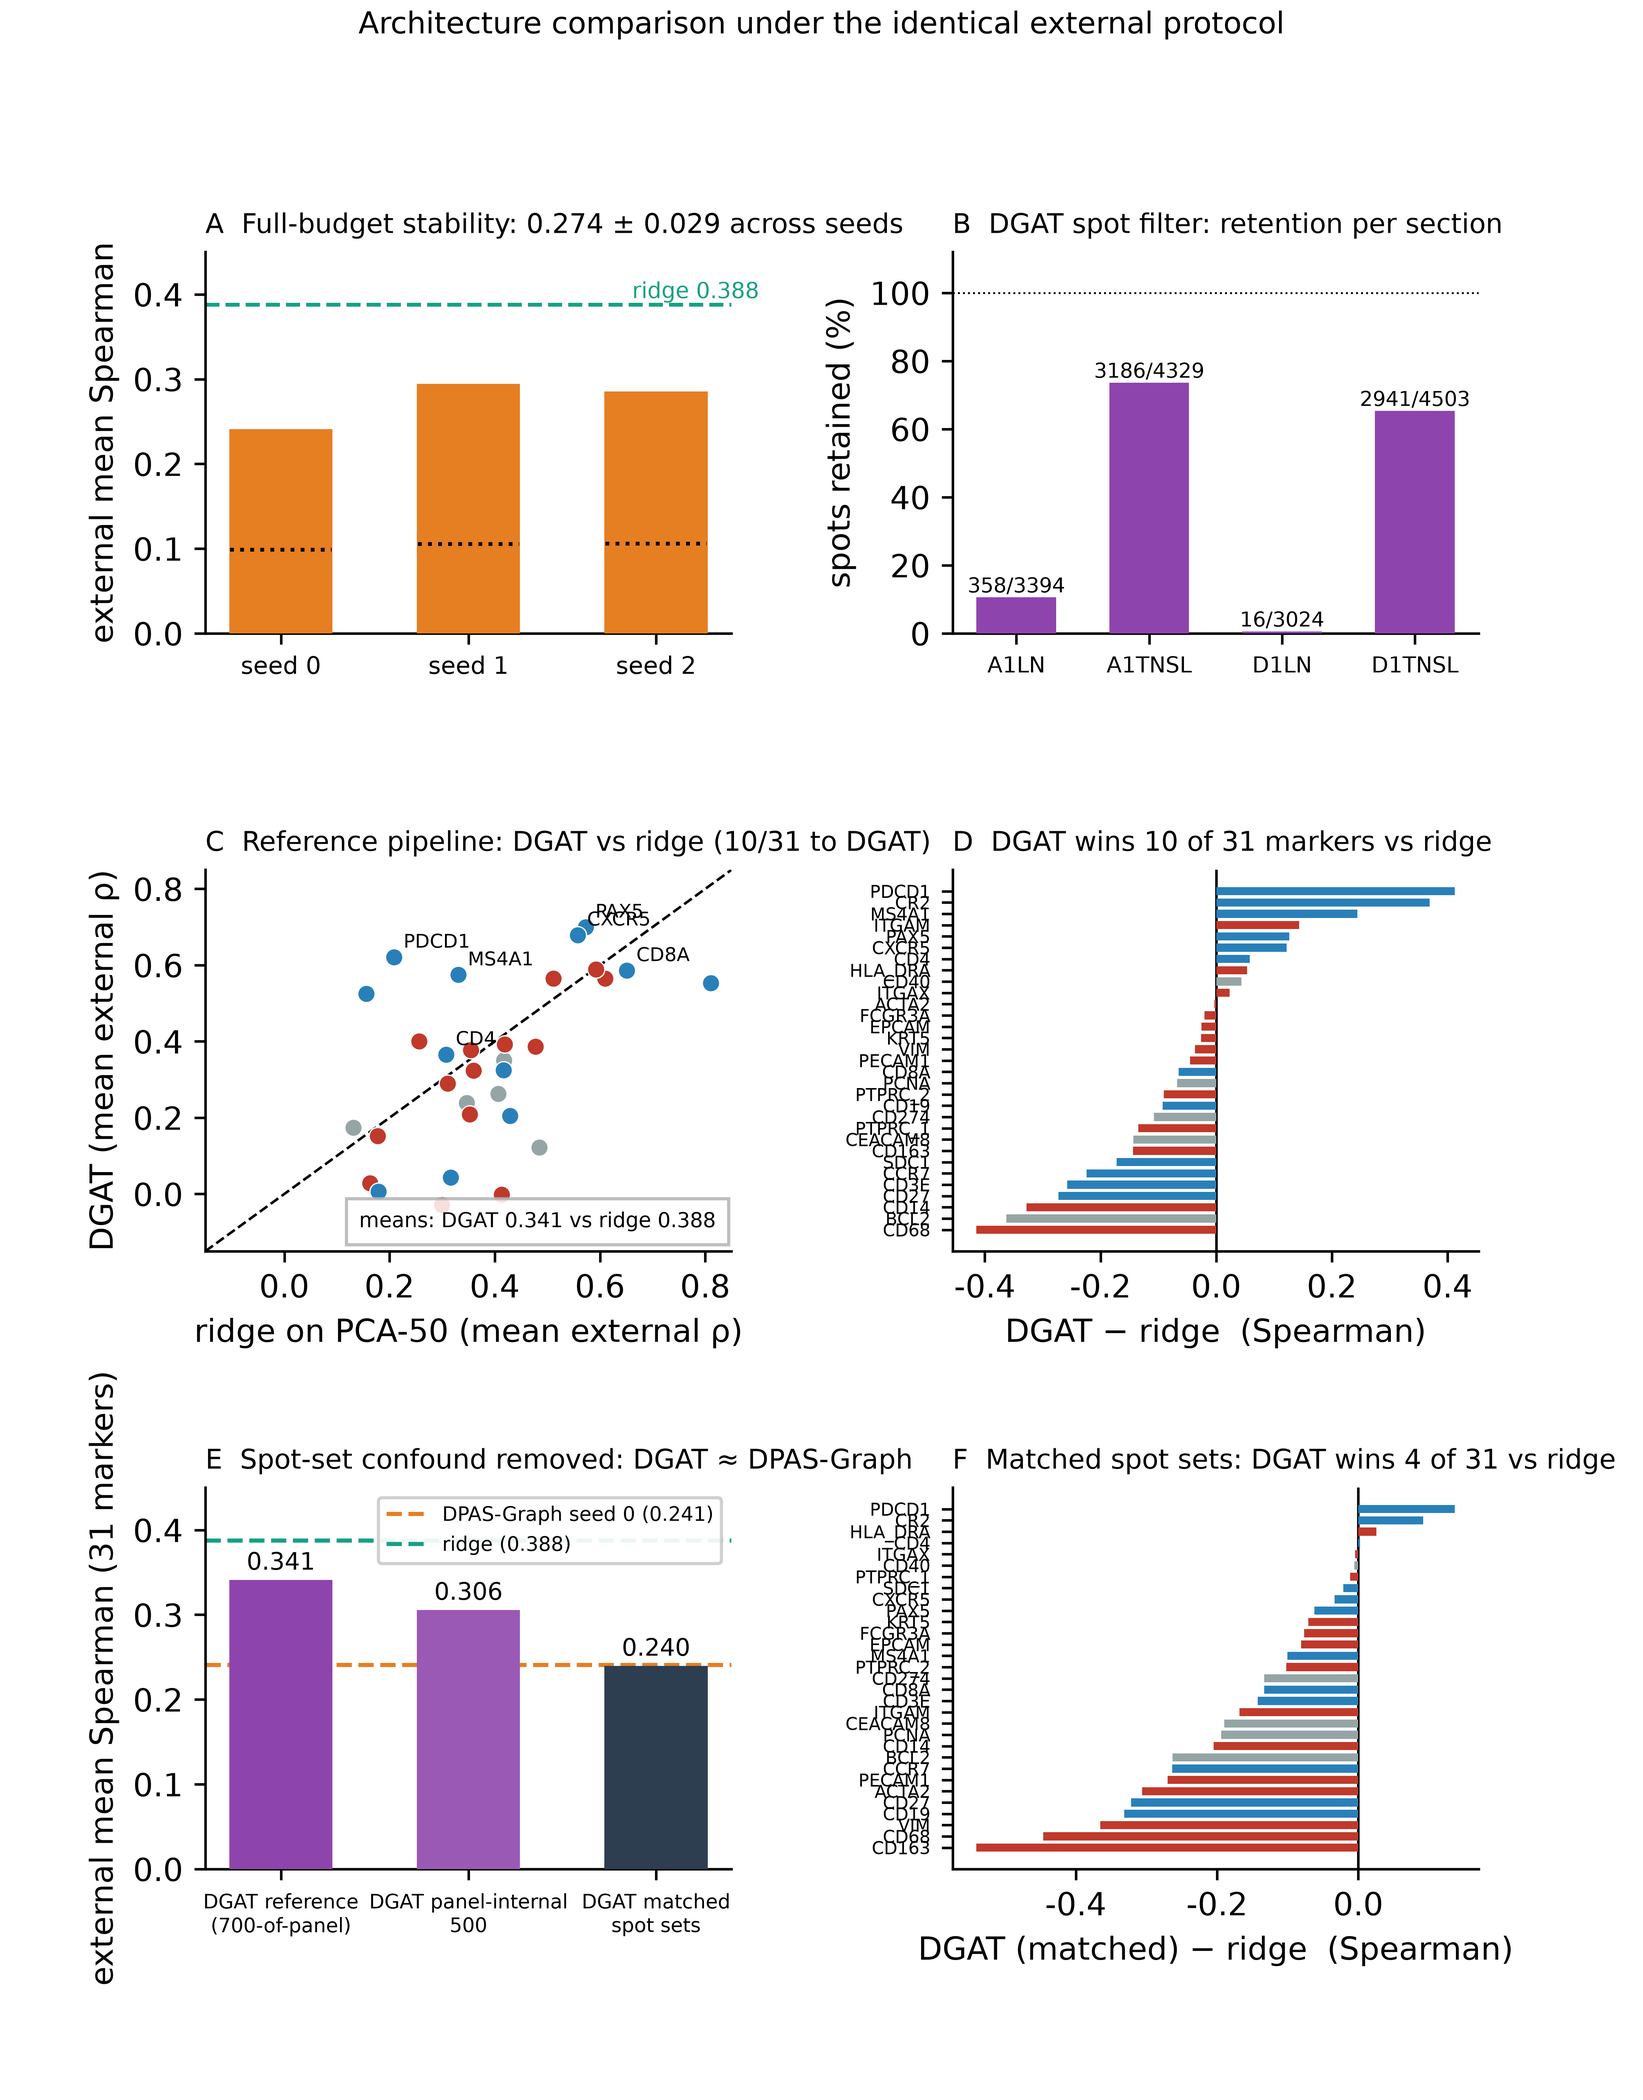
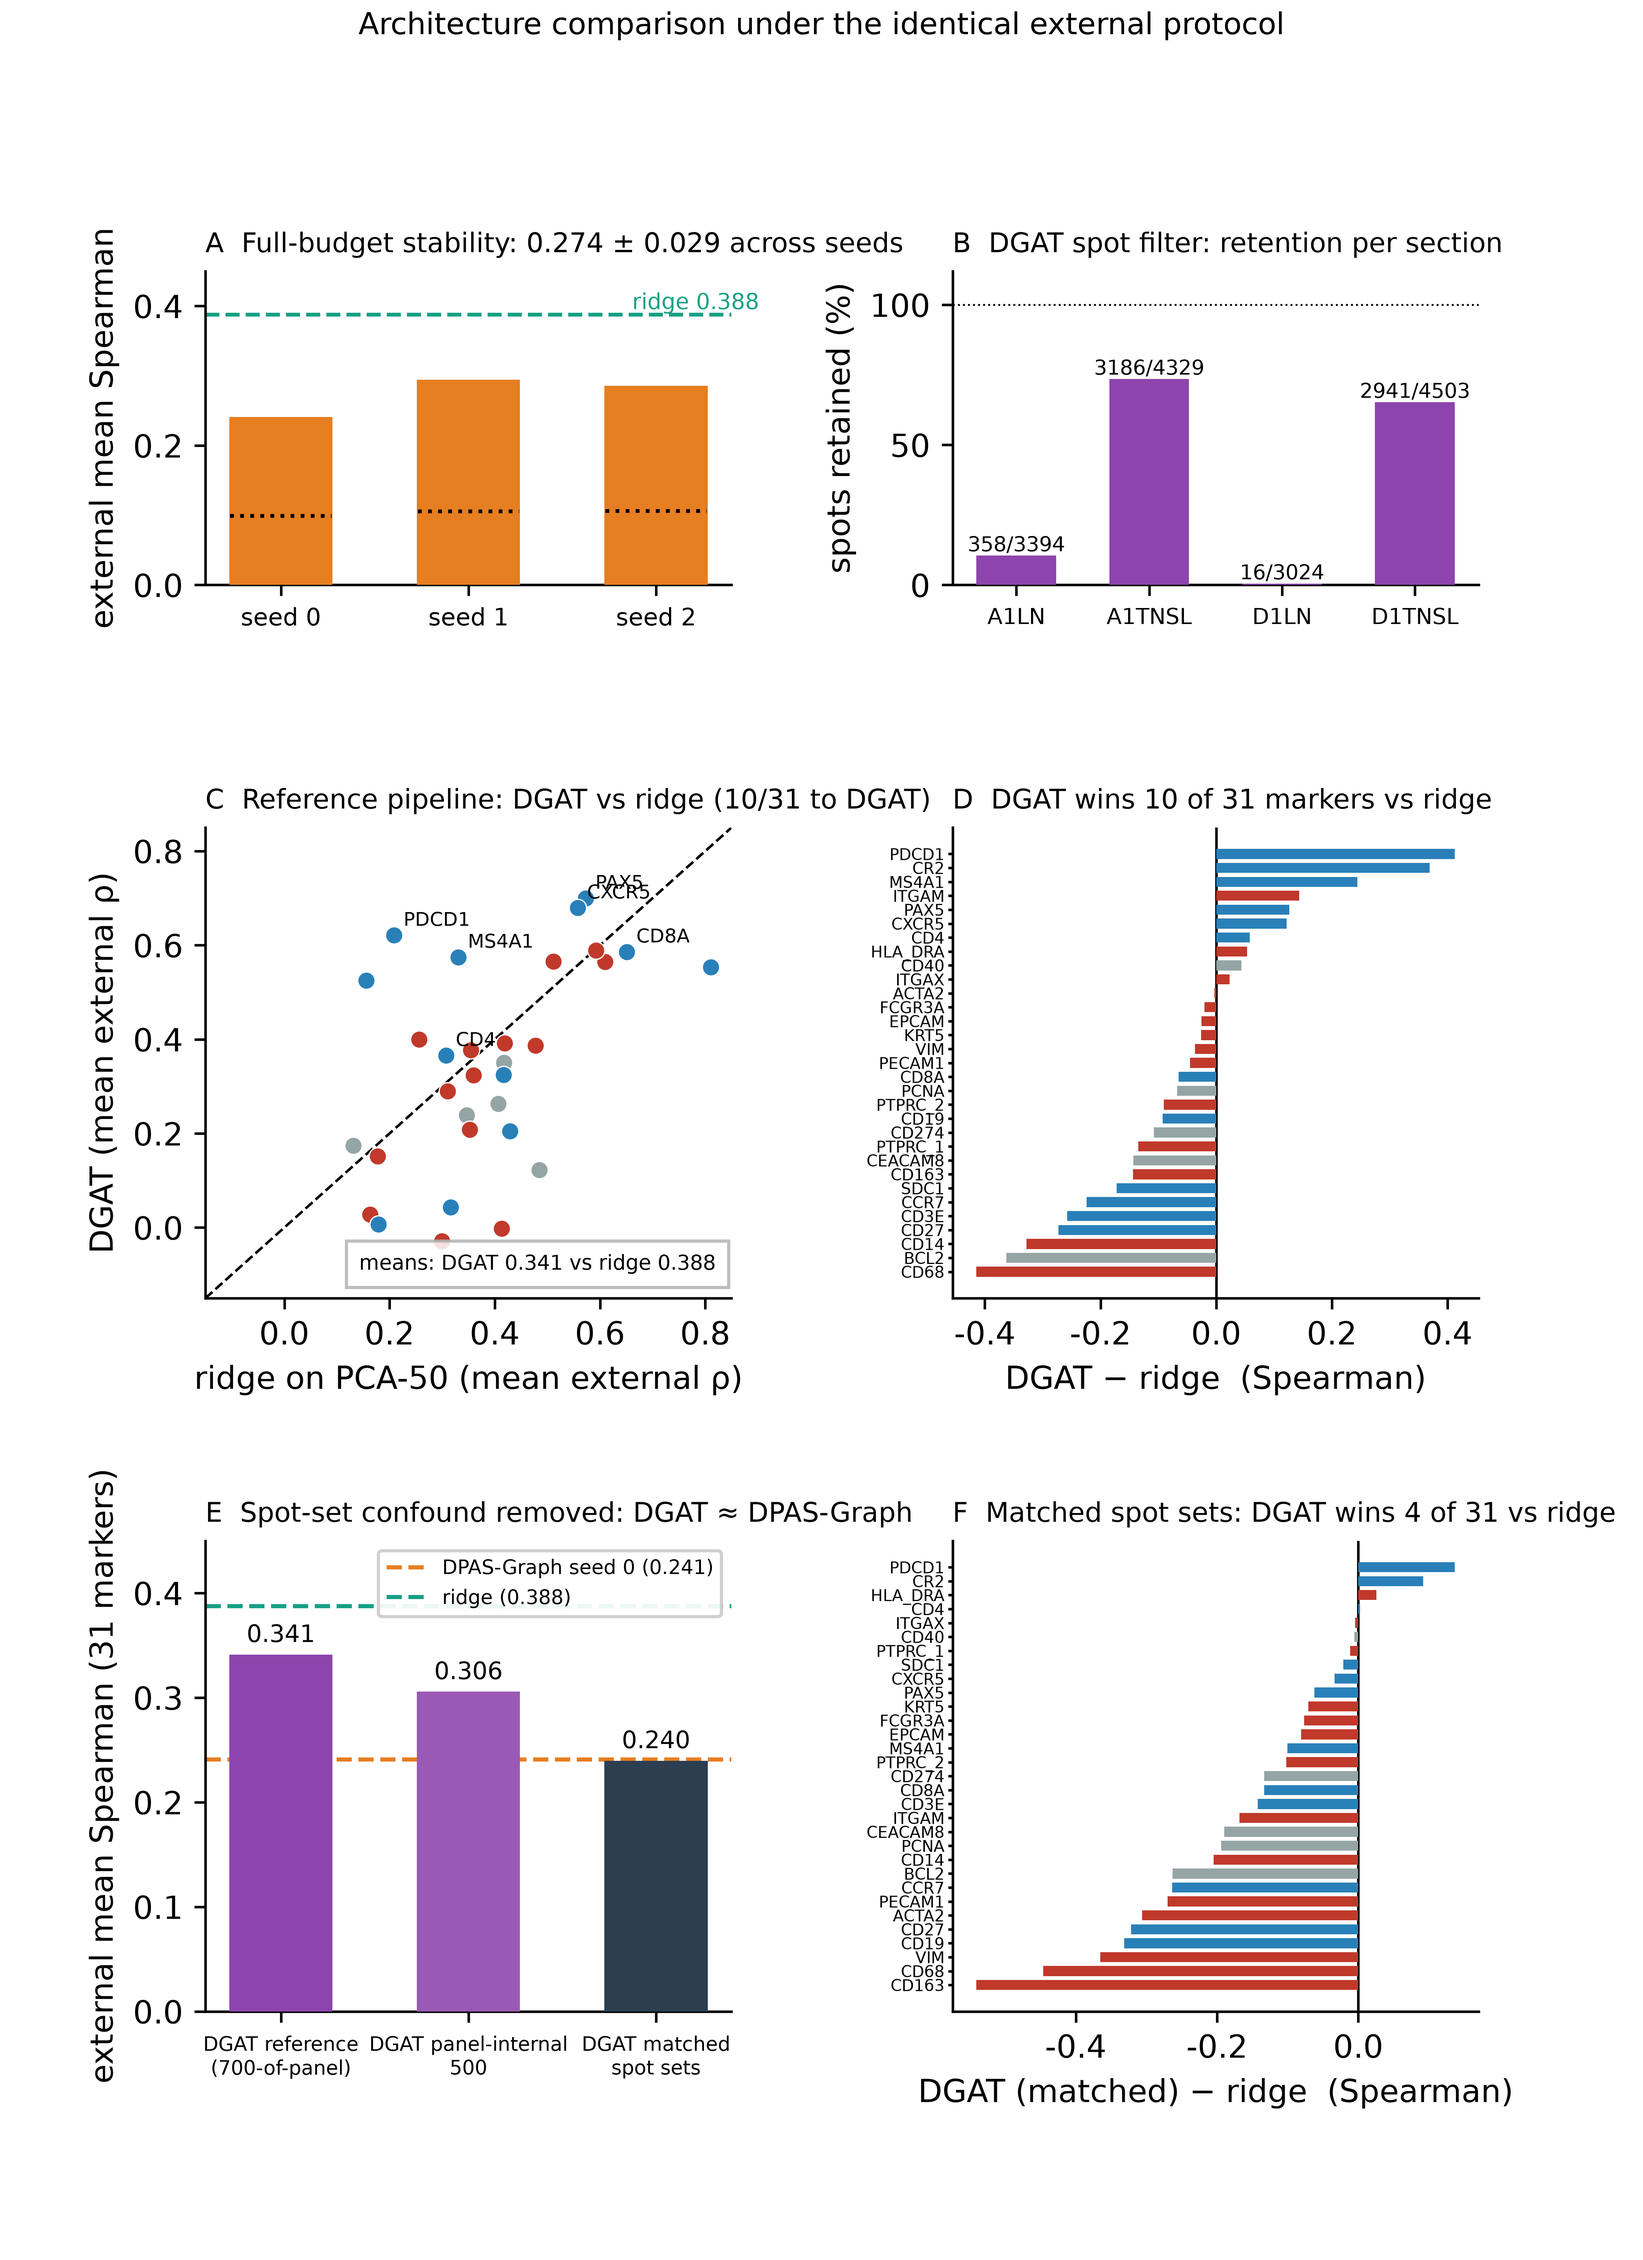
Figure 4 rendering fix: taller D/F panels and smaller y-tick labels remove protein-name overlap (no data change; all panel numbers reproduced identically)

diff --git a/scripts/make_fig4_matched.py b/scripts/make_fig4_matched.py
@@ -49,9 +49,9 @@ nof_m = nof.groupby(["sample", "protein"]).spearman.mean().reset_index().groupby
 dpas_seed0 = float(ms[ms.seed == 0].spear_marker_mean.iloc[0])
 dpas_3seed = (float(ms.spear_marker_mean.mean()), float(ms.spear_marker_mean.std(ddof=1)))
 
-fig = plt.figure(figsize=(7.2, 9.2))
+fig = plt.figure(figsize=(7.2, 9.9))
 fig.suptitle("Architecture comparison under the identical external protocol", fontsize=9.5, y=0.995)
-gs = fig.add_gridspec(3, 2, hspace=0.62, wspace=0.42)
+gs = fig.add_gridspec(3, 2, height_ratios=[0.8, 1.2, 1.2], hspace=0.58, wspace=0.42)
 
 # A: 3-seed stability at 100 epochs
 ax = fig.add_subplot(gs[0, 0])
@@ -114,7 +114,8 @@ diff = (dgat_m[markers] - ridge_m[markers]).sort_values()
 ax.barh(range(len(diff)), diff.values, color=[gcol(p) for p in diff.index],
         height=0.72, zorder=3)
 ax.set_yticks(range(len(diff)))
-ax.set_yticklabels(diff.index, fontsize=5.5)
+ax.set_yticklabels(diff.index, fontsize=5)
+ax.tick_params(axis="y", pad=1, length=1.5)
 ax.axvline(0, color="k", lw=0.8)
 ax.set_xlabel("DGAT − ridge  (Spearman)")
 ax.set_title(f"D  DGAT wins {nwin_ref} of 31 markers vs ridge", fontsize=8.5, loc="left")
@@ -154,7 +155,8 @@ diff_m = (nof_m[markers] - ridge_m[markers]).sort_values()
 ax.barh(range(len(diff_m)), diff_m.values, color=[gcol(p) for p in diff_m.index],
         height=0.72, zorder=3)
 ax.set_yticks(range(len(diff_m)))
-ax.set_yticklabels(diff_m.index, fontsize=5.5)
+ax.set_yticklabels(diff_m.index, fontsize=5)
+ax.tick_params(axis="y", pad=1, length=1.5)
 ax.axvline(0, color="k", lw=0.8)
 ax.set_xlabel("DGAT (matched) − ridge  (Spearman)")
 nwin_m = int((diff_m > 0).sum())
